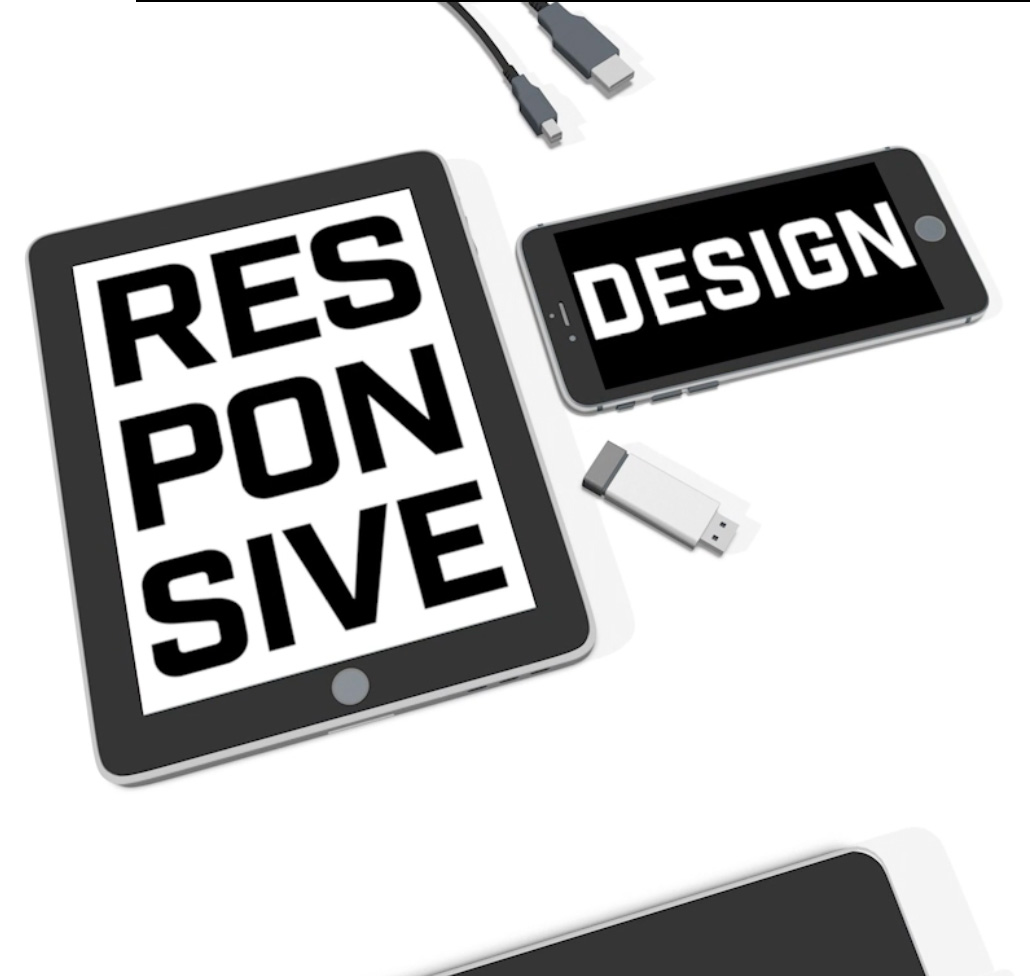
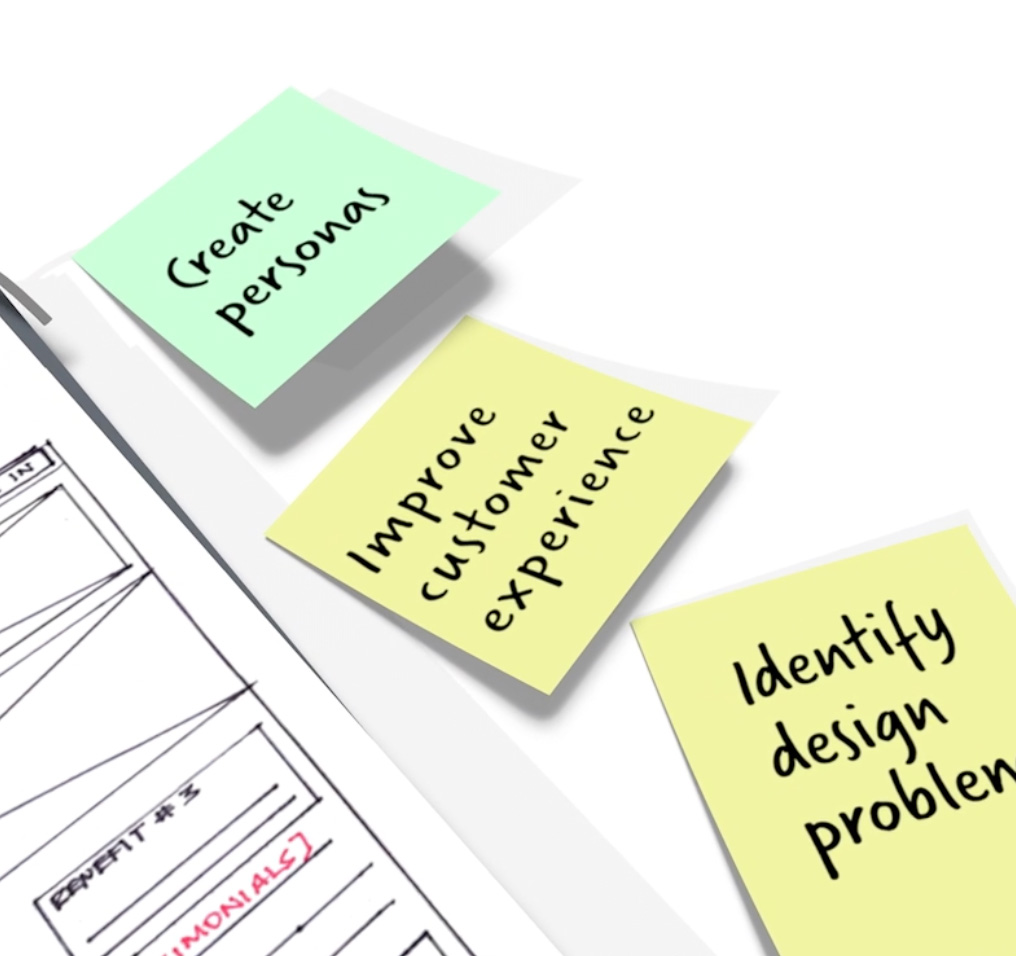
vid poster

diff --git a/src/pages/Misc.tsx b/src/pages/Misc.tsx
@@ -30,7 +30,6 @@ return (
 <div className='containerOver'></div>
 
 
-<FadeInSection duration = {0.25} delay = {0}>
 
 <SimpleGrid
       cols={{ base: 1, sm: 2, lg: 2 }}
@@ -55,7 +54,7 @@ return (
        
 </SimpleGrid>
 
-</FadeInSection>
+
 
 
 <Space h="xl" />
@@ -115,12 +114,10 @@ View
 <Space h="md" />
 
 
-<FadeInSection duration = {0.25} delay = {0}>
 <Title fw={500} order={2} c="grape">Premiere Pro</Title>
 <p>A fun editing using stock videos synced to audio.</p>
 <Space h="md" />
 <VidComp src="video/xc.mp4" posterThumb={image9} />
-</FadeInSection>
 
 <Space h="xl" />
 <Divider my="md" />